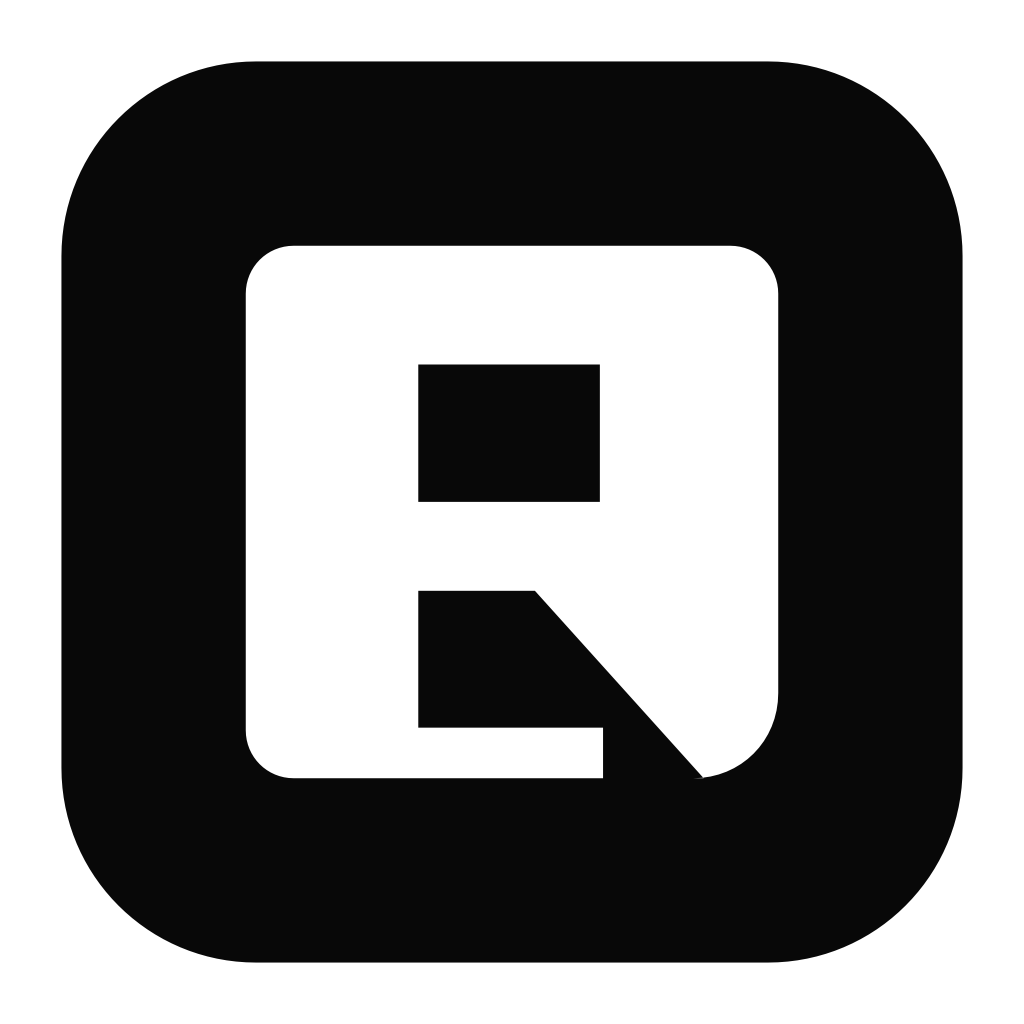
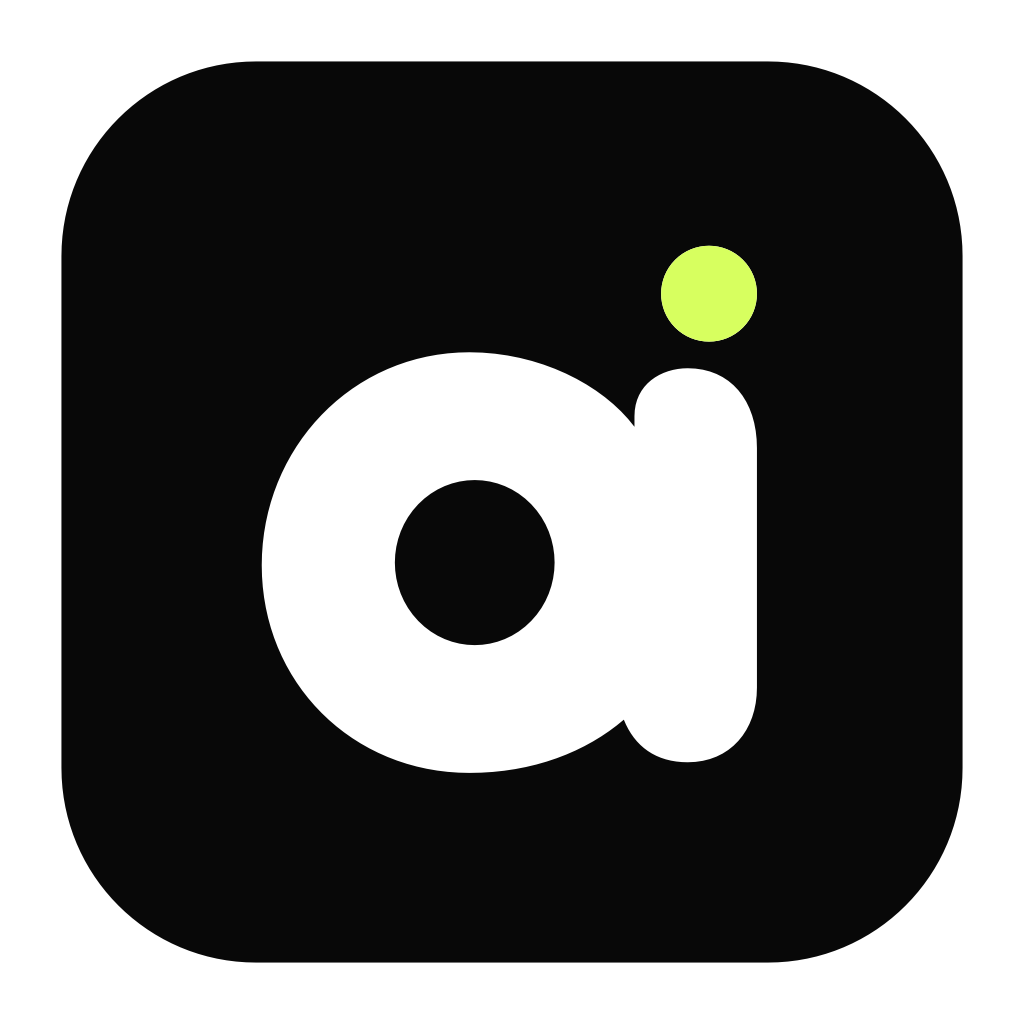
Rename Ration to Allot with a playful allocation mark

Changed region(s): [[0.2188, 0.2188, 0.7812, 0.7812]]

diff --git a/Sources/Quota/AllotMark.swift b/Sources/Quota/AllotMark.swift
@@ -1,0 +1,45 @@
+import AppKit
+
+/// A chunky lowercase a with one portion set aside as a floating dot.
+enum AllotMark {
+    static let accentColor = NSColor(srgbRed: 215 / 255, green: 1, blue: 95 / 255, alpha: 1)
+    static func path(in rect: NSRect) -> NSBezierPath {
+        func point(_ x: CGFloat, _ y: CGFloat) -> NSPoint {
+            NSPoint(x: rect.minX + rect.width * x / 100, y: rect.maxY - rect.height * y / 100)
+        }
+        let path = NSBezierPath()
+        path.windingRule = .evenOdd
+        path.move(to: point(42, 20))
+        path.curve(to: point(73, 34), controlPoint1: point(55, 20), controlPoint2: point(67, 26))
+        path.line(to: point(73, 32))
+        path.curve(to: point(83, 23), controlPoint1: point(73, 26), controlPoint2: point(78, 23))
+        path.curve(to: point(96, 38), controlPoint1: point(91, 23), controlPoint2: point(96, 29))
+        path.line(to: point(96, 83))
+        path.curve(to: point(83, 97), controlPoint1: point(96, 91), controlPoint2: point(91, 97))
+        path.curve(to: point(71, 89), controlPoint1: point(77, 97), controlPoint2: point(73, 94))
+        path.curve(to: point(42, 99), controlPoint1: point(64, 95), controlPoint2: point(54, 99))
+        path.curve(to: point(3, 60), controlPoint1: point(20, 99), controlPoint2: point(3, 82))
+        path.curve(to: point(42, 20), controlPoint1: point(3, 38), controlPoint2: point(20, 20))
+        path.close()
+        path.append(oval(x: 28, y: 44, width: 30, height: 31, in: rect))
+        path.append(accentPath(in: rect))
+        return path
+    }
+    static func accentPath(in rect: NSRect) -> NSBezierPath {
+        oval(x: 78, y: 0, width: 18, height: 18, in: rect)
+    }
+    private static func oval(x: CGFloat, y: CGFloat, width: CGFloat, height: CGFloat, in rect: NSRect) -> NSBezierPath {
+        NSBezierPath(ovalIn: NSRect(x: rect.minX + rect.width * x / 100, y: rect.maxY - rect.height * (y + height) / 100,
+                                  width: rect.width * width / 100, height: rect.height * height / 100))
+    }
+    static func menuBarImage() -> NSImage {
+        let image = NSImage(size: NSSize(width: 18, height: 18), flipped: false) { bounds in
+            NSColor.black.setFill()
+            path(in: bounds.insetBy(dx: 1, dy: 1)).fill()
+            return true
+        }
+        image.isTemplate = true
+        image.accessibilityDescription = "Allot · AI usage"
+        return image
+    }
+}

diff --git a/scripts/AppIcon.swift b/scripts/AppIcon.swift
@@ -3,7 +3,7 @@ import AppKit
 @main enum AppIcon {
     static func main() throws {
         guard (2...3).contains(CommandLine.arguments.count) else {
-            throw NSError(domain: "RationIcon", code: 1, userInfo: [NSLocalizedDescriptionKey: "Usage: render-icon <iconset-directory> [branding-directory]"])
+            throw NSError(domain: "AllotIcon", code: 1, userInfo: [NSLocalizedDescriptionKey: "Usage: render-icon <iconset-directory> [branding-directory]"])
         }
         let directory = URL(fileURLWithPath: CommandLine.arguments[1])
         try FileManager.default.createDirectory(at: directory, withIntermediateDirectories: true)
@@ -22,7 +22,7 @@ import AppKit
         guard let bitmap = NSBitmapImageRep(bitmapDataPlanes: nil, pixelsWide: pixels, pixelsHigh: pixels, bitsPerSample: 8,
             samplesPerPixel: 4, hasAlpha: true, isPlanar: false, colorSpaceName: .deviceRGB, bytesPerRow: pixels * 4, bitsPerPixel: 32),
               let context = NSGraphicsContext(bitmapImageRep: bitmap) else {
-            throw NSError(domain: "RationIcon", code: 2, userInfo: [NSLocalizedDescriptionKey: "Could not create icon bitmap"])
+            throw NSError(domain: "AllotIcon", code: 2, userInfo: [NSLocalizedDescriptionKey: "Could not create icon bitmap"])
         }
         NSGraphicsContext.saveGraphicsState()
         defer { NSGraphicsContext.restoreGraphicsState() }
@@ -36,9 +36,12 @@ import AppKit
         }
         NSColor.white.setFill()
         let inset = background ? size * 0.24 : 0
-        RationMark.path(in: bounds.insetBy(dx: inset, dy: inset)).fill()
+        let markBounds = bounds.insetBy(dx: inset, dy: inset)
+        AllotMark.path(in: markBounds).fill()
+        AllotMark.accentColor.setFill()
+        AllotMark.accentPath(in: markBounds).fill()
         guard let data = bitmap.representation(using: .png, properties: [:]) else {
-            throw NSError(domain: "RationIcon", code: 3, userInfo: [NSLocalizedDescriptionKey: "Could not encode icon PNG"])
+            throw NSError(domain: "AllotIcon", code: 3, userInfo: [NSLocalizedDescriptionKey: "Could not encode icon PNG"])
         }
         return data
     }

diff --git a/Tests/QuotaTests/T3Tests.swift b/Tests/QuotaTests/T3Tests.swift
@@ -184,14 +184,15 @@ final class T3Tests: XCTestCase {
         XCTAssertEqual(try total(engine), 10, "Repeated summaries must not mutate or double-count cached records")
         XCTAssertEqual(try total(T3Engine()), 0, "History must remain private to its engine")
     }
-    @MainActor func testTokenMarkKeepsItsCountersAndMenuBarTemplate() {
-        let path = RationMark.path(in: NSRect(x: 0, y: 0, width: 100, height: 100))
+    @MainActor func testAllotMarkKeepsItsCounterDotAndMenuBarTemplate() {
+        let path = AllotMark.path(in: NSRect(x: 0, y: 0, width: 100, height: 100))
         XCTAssertTrue(path.contains(NSPoint(x: 10, y: 50)))
-        XCTAssertTrue(path.contains(NSPoint(x: 90, y: 50)))
-        XCTAssertFalse(path.contains(NSPoint(x: 45, y: 65)), "Upper counter stays transparent")
-        XCTAssertFalse(path.contains(NSPoint(x: 40, y: 25)), "Lower cutout stays transparent")
+        XCTAssertTrue(path.contains(NSPoint(x: 88, y: 40)))
+        XCTAssertFalse(path.contains(NSPoint(x: 43, y: 40)), "Counter stays transparent")
+        XCTAssertTrue(path.contains(NSPoint(x: 87, y: 91)), "Floating portion remains visible")
+        XCTAssertFalse(path.contains(NSPoint(x: 87, y: 80)), "Dot stays separated from the body")
         XCTAssertFalse(path.contains(NSPoint(x: -1, y: 50)))
-        let menu = RationMark.menuBarImage()
+        let menu = AllotMark.menuBarImage()
         XCTAssertTrue(menu.isTemplate)
         XCTAssertEqual(menu.size, NSSize(width: 18, height: 18))
     }

diff --git a/Sources/Quota/T3Source.swift b/Sources/Quota/T3Source.swift
@@ -110,7 +110,7 @@ struct T3LimitReader: Sendable {
         switch account.provider {
         case .codex:
             guard let binary = account.configuration["binaryPath"].flatMap({ $0.isEmpty ? nil : (Command.executable($0) ?? (FileManager.default.isExecutableFile(atPath: $0) ? $0 : nil)) }) ?? Command.executable("codex") else { throw UsageFailure("Codex is not installed.") }
-            let lines = ["{\"id\":1,\"method\":\"initialize\",\"params\":{\"clientInfo\":{\"name\":\"ration\",\"version\":\"2.0\"}}}", "{\"method\":\"initialized\"}", "{\"id\":2,\"method\":\"account/rateLimits/read\"}"].joined(separator: "\n") + "\n"
+            let lines = ["{\"id\":1,\"method\":\"initialize\",\"params\":{\"clientInfo\":{\"name\":\"allot\",\"version\":\"2.0\"}}}", "{\"method\":\"initialized\"}", "{\"id\":2,\"method\":\"account/rateLimits/read\"}"].joined(separator: "\n") + "\n"
             let data = try await Command.run(binary, ["app-server"], input: lines, environment: account.environment, responseID: 2)
             limits = try Self.codex(data)
         case .claude: limits = try Self.claude(await T3ClaudeProbe.run(account: account))

diff --git a/Sources/Quota/QuotaApp.swift b/Sources/Quota/QuotaApp.swift
@@ -2,7 +2,7 @@ import AppKit
 import SwiftUI
 import CoreText
 
-@main struct RationApp {
+@main struct AllotApp {
     @MainActor static func main() {
         let application = NSApplication.shared
         application.setActivationPolicy(.accessory)
@@ -43,9 +43,9 @@ import CoreText
             return
         }
         item = NSStatusBar.system.statusItem(withLength: NSStatusItem.squareLength)
-        item.button?.image = RationMark.menuBarImage()
+        item.button?.image = AllotMark.menuBarImage()
         item.button?.target = self; item.button?.action = #selector(toggle)
-        item.button?.toolTip = "Ration · T3 usage"
+        item.button?.toolTip = "Allot · T3 usage"
         popover.behavior = .transient; popover.animates = false
         let controller = NSHostingController(rootView: PanelView(store: store, close: { [weak self] in self?.popover.performClose(nil) }))
         controller.sizingOptions = [.preferredContentSize]; popover.contentViewController = controller

diff --git a/README.md b/README.md
@@ -1,8 +1,8 @@
 <div align="center">
 
-<img src="docs/branding/app-icon.png" width="96" alt="Ration Token logo">
+<img src="docs/branding/app-icon.png" width="96" alt="Allot logo">
 
-# Ration
+# Allot
 
 **Know what’s left.**
 
@@ -44,20 +44,20 @@ Built with SwiftUI, AppKit and the usage logic from [T3 Code](https://github.com
 Requires **macOS 14 or newer**, Swift 6 and Xcode command-line tools. The build script produces a universal Apple Silicon / Intel app.
 
 ```sh
-git clone https://github.com/GithubAnant/Ration.git
-cd Ration
+git clone https://github.com/GithubAnant/Allot.git
+cd Allot
 swift test
 ./scripts/build-app.sh
-open dist/Ration.app
+open dist/Allot.app
 ```
 
-Move `dist/Ration.app` to `~/Applications` if you want to keep it installed. Click its menu bar icon to open the panel.
+Move `dist/Allot.app` to `~/Applications` if you want to keep it installed. Click its menu bar icon to open the panel.
 
 The app is ad-hoc signed for local use, **not notarized**. Apple Silicon runtime is tested; Intel is compiled but has not been tested on physical Intel hardware. There is no auto-updater or paid signing requirement for building locally.
 
 ## Connect your tools
 
-Sign in to the **Codex** and **Claude Code** CLIs normally. Ration discovers their default accounts. It also reads enabled provider instances and existing credentials from T3 Code’s default `~/.t3/userdata` directory. Set up custom accounts in T3, then refresh Ration.
+Sign in to the **Codex** and **Claude Code** CLIs normally. Allot discovers their default accounts. It also reads enabled provider instances and existing credentials from T3 Code’s default `~/.t3/userdata` directory. Set up custom accounts in T3, then refresh Allot.
 
 | Provider | Subscription limits | Cost and tokens |
 | --- | --- | --- |
@@ -72,7 +72,7 @@ Gemini CLI, GitHub Copilot, Windsurf, Perplexity and standalone Grok subscriptio
 ## What the numbers mean
 
 - **Cost is an API-equivalent estimate, not your subscription bill.** Prices, aliases, filters and overrides come from T3’s local rate/settings files. Missing rates remain unpriced.
-- Cursor limits refresh live. Cursor **cost/token history** updates when T3 syncs its account-usage cache; Ration does not fetch a new event ledger.
+- Cursor limits refresh live. Cursor **cost/token history** updates when T3 syncs its account-usage cache; Allot does not fetch a new event ledger.
 - Unavailable quota/reset data stays unavailable; it is never presented as a measured zero or an invented reset time.
 - The OpenCode error banner is hidden. Its underlying connection error is still available in diagnostics.
 - Account management remains in the CLI/T3. Refresh-interval settings and notification preferences are outside this minimal Usage-tab port.

diff --git a/docs/branding/README.md b/docs/branding/README.md
@@ -1,8 +1,8 @@
-# Ration Token mark
+# Allot mark
 
-Selected logo direction **D — Token**. A geometric white token with open counters and a diagonal cut.
+A chunky lowercase **a**, with one allocation set aside as a floating citrus dot. Bold shapes and a generous counter keep it legible at menu-bar size. The native menu-bar image is monochrome and adapts to the system appearance.
 
-- `app-icon.png`: 1024px app icon, on a dark rounded tile.
-- `mark.png`: 1024px white symbol with transparent background and counters.
+- `app-icon.png`: 1024px app icon on a dark rounded tile.
+- `mark.png`: 1024px symbol with transparent background and a citrus accent.
 
-Both are generated from `Sources/Quota/RationMark.swift`, which also draws the native 18-point menu-bar template. The app iconset is generated at exact 16–1024px resolutions during packaging. See CONTRIBUTING.md for the regeneration command.
+Both are generated from `Sources/Quota/AllotMark.swift`, which also draws the native 18-point menu-bar template. The app iconset is generated at exact 16–1024px resolutions during packaging. See CONTRIBUTING.md for the regeneration command.

diff --git a/CONTRIBUTING.md b/CONTRIBUTING.md
@@ -23,11 +23,11 @@ For a PR, describe the user-visible change, how you checked it, and provider/pla
 
 ## Logo assets
 
-The selected Token mark is defined once in `Sources/Quota/RationMark.swift`. The menu bar draws this path as a template image; `scripts/AppIcon.swift` renders the same path into the app icon. To regenerate public PNGs:
+The Allot allocation mark is defined once in `Sources/Quota/AllotMark.swift`. The menu bar draws this path as a template image; `scripts/AppIcon.swift` renders the same path into the app icon. To regenerate public PNGs:
 
 ```sh
-swiftc -O -parse-as-library Sources/Quota/RationMark.swift scripts/AppIcon.swift -o /tmp/ration-render-icon
-/tmp/ration-render-icon /tmp/Ration.iconset docs/branding
+swiftc -O -parse-as-library Sources/Quota/AllotMark.swift scripts/AppIcon.swift -o /tmp/allot-render-icon
+/tmp/allot-render-icon /tmp/Allot.iconset docs/branding
 ```
 
 The regular app build regenerates its icon without changing tracked documentation assets.

diff --git a/docs/VALIDATION.md b/docs/VALIDATION.md
@@ -13,7 +13,7 @@ Run `swift test` on macOS. The correctness suite covers:
 - Cache reuse and preservation of newer locally parsed records.
 - Unicode, invalid UTF-8, malformed JSON, chunk boundaries and partial writes.
 - Native segmented-control action through to a redraw of the number region.
-- Token-mark cutout geometry and the 18-point native menu-bar template.
+- Allot-mark counter and floating-dot geometry and the 18-point native menu-bar template.
 
 Documentation rendering is opt-in. `QUOTA_SCREENSHOT_DIRECTORY="$PWD/docs/screenshots" swift test --filter DocumentationScreenshots` produces all three panel screenshots using synthetic test records. No real accounts, usage files, credentials or provider requests are used by this renderer.
 
